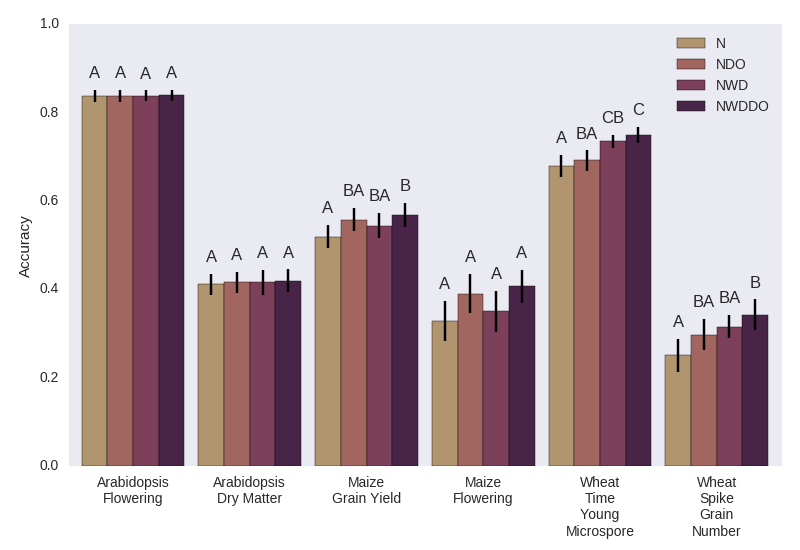
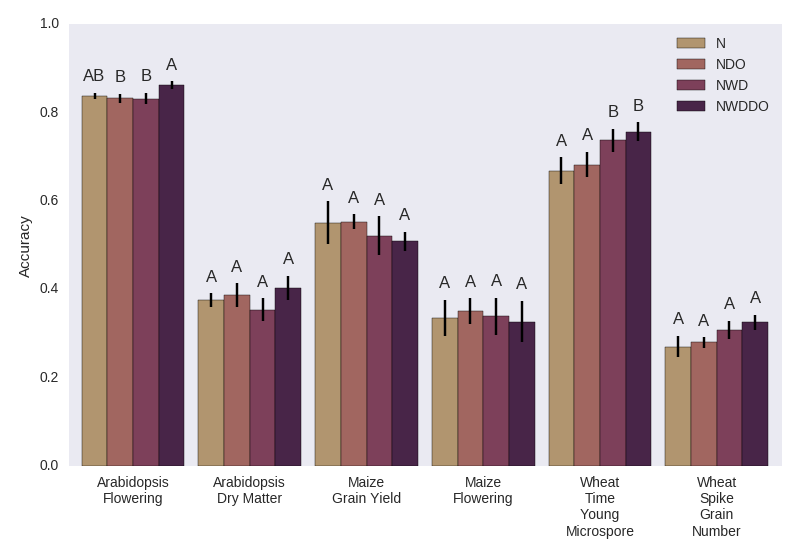
New figures. Full thesis skeleton

diff --git a/main.tex b/main.tex
@@ -2,20 +2,102 @@
 
 % Required Packages
 \usepackage[utf8]{inputenc}
-\usepackage{graphicx}
-\usepackage{blindtext}
 \usepackage[titletoc]{appendix}
+\usepackage{multirow}
+\usepackage{caption}
+\usepackage{tikz}
+\usepackage{tabularx}
+\usepackage{url}
+\usepackage{ifthen}
+\usepackage{verbatim}
+\usepackage{blindtext}
 \usepackage{amsmath}
 \usepackage{natbib}
-\usepackage{pdfpages}
 \usepackage{textcomp}
+\usepackage[hypertexnames=false,linktocpage=true]{hyperref}
+\hypersetup{colorlinks=true,linkcolor=blue,anchorcolor=blue,citecolor=blue,filecolor=blue,urlcolor=blue,bookmarksnumbered=true,pdfview=FitB}
 
 \graphicspath{ {images/} }
 
+% Set ISU required margins for unbound manuscript.
+\usepackage[margin=1.0in]{geometry}
+
+% Allow frontmatter and mainmatter in an article instead of a book.
+\newcommand\frontmatter{%
+    \cleardoublepage
+    \pagenumbering{roman}}
+\newcommand\mainmatter{%
+    \cleardoublepage
+    \pagenumbering{arabic}}
+
+% ISU thesis wants specific ToC formatting.
+\usepackage{tocloft}
+\renewcommand{\contentsname}{\hfill\bfseries\Large TABLE OF CONTENTS\hfill}
+\renewcommand\cftaftertoctitle{\hfill}
+\renewcommand\cftchapfont{\bfseries\MakeUppercase}
+\renewcommand\cftchappresnum{\chaptername~}
+\renewcommand\cftchapaftersnum{.}
+\cftsetindents{chapter}{0em}{8em}
+\cftsetindents{section}{2em}{6em}
+\cftsetindents{subsection}{4em}{6em}
+
+% ISU thesis wants bold, centered, uppercase chapters.
+\usepackage{titlesec}
+\titleformat{\chapter}[display]
+    {\normalfont\Large\bfseries\centering}
+    {\MakeUppercase\chaptertitlename\ \thechapter}{0pt}{\Large\uppercase}
+\titlespacing*{\chapter}{0pt}{-30pt}{30pt}
+
+% ISU thesis wants bold, centered, IntialCaps sections.
+\titleformat{\section}[display]
+    {\normalfont\large\bfseries\centering}
+    {}{0pt}{\large}
+
+% ISU wants 16pt Chapters and 12pt text.
+% That makes for 14pt sections.
+\makeatletter
+\renewcommand\Large{\@setfontsize\Large\@xivpt{16}}
+\renewcommand\large{\@setfontsize\Large\@xivpt{14}}
+\makeatother
+
+% ISU wants double spacing.
+\usepackage{setspace}
+
+% ISU examples show indents in paragraphs even after centered headings.
+\usepackage{indentfirst}
+
+% ISU wants page numbers top and centered.
+\usepackage{fancyhdr}
+\pagestyle{fancy}
+\fancyhf{} % Clear all headers and footers.
+\fancyhead[C]{\textbf{\thepage}} % Put page # at top of page.
+\fancypagestyle{plain}{ % Do the same thing for the plain style.
+    \fancyhf{} 
+    \fancyhead[C]{\textbf{\thepage}}
+    }
+\renewcommand{\headrulewidth}{0pt}
+
+% Begin the document.
+
 \begin{document}
+\frontmatter
 \input{chapters/title_page}
 \input{chapters/table_of_contents}
-\input{chapters/general_introduction}
+
+\doublespacing
+\phantomsection
+\input{chapters/abstract}
+\addcontentsline{toc}{chapter}{Abstract}
+
+
+\mainmatter
+\input{chapters/general_intro/general_introduction}
+\input{chapters/general_conclusions/general_conclusions}
+%\input{simplified/simple_contents}
+%\includepdf[pages={-}]{output/g3_article.pdf}
 \input{chapters/literature_cited}
-\includepdf[pages={-}]{output/g3_article.pdf}
+
+\input{chapters/appendices/raw_data}
+\addcontentsline{toc}{chapter}{Appendix A. Raw Data}
+
 \end{document}

diff --git a/g3_article/sections/results_discussion.tex b/g3_article/sections/results_discussion.tex
@@ -1,6 +1,34 @@
 
 \subsection*{Overall Performance}
 
+The unregularized neural network archetecture (N) was not a top performer for any of the six datasets. 
+At least one form of regularization outperformed the unregularized network for every dataset. 
+No network with only a single form of regularization was a best-in-dataset performer, but networks 
+with both dropout and weight decay were able to achive best-in-dataset performance on the Arabidopsis 
+- Flowering and Wheat - Time Young Microspore genomic prediction tasks. These results are summarized 
+in Table \ref{tab:model-comparison}.
+
+These results support the hypothesis that some type of regularization is required to achieve
+optimal performance in nerual network models. Additionally, a singular regularization strategy was
+not optimal for all datasets, indicating that the best regularization strategy for genomic prediction
+is dependent on the predicted species, trait, or population studied. 
+
+Dropout regularization tends to produce networks 
+that have reduced co-adaptation \citep{srivastava2014}. For genomic prediction tasks, this would
+indicate that the detection of rare combinations haplotypes specific to only one
+or two individuals are generally not learned or used for prediction. Instead, common haplotypes that persist across many
+different dropout iterations would be preferred by the network during training.
+
+Weight decay is an application of L2 regularization to neural networks \citep{krogh1992}. Like ridge regression, it prefers
+solutions that do not place large emphasis on any singular feature. For genomic prediction tasks, 
+this will produce models that perform well on traits with many predictive marker calls 
+with small effects. 
+
+For traits with a mixture of a few large-effect alleles and many small effect allels, some combination of 
+L1 and L2 regularization may be optimal. The elastic net (EN) model incorporates both of these regularization
+techniques, and is the top performer on two of the six datasets presented.
+
+
 \ifdefined\showtablesandfigures
 \input{g3_article/tables/model_comparison_wrapper} % Label = tab:model-comparison
 \fi

diff --git a/g3_article/tables/model_comparison.tex b/g3_article/tables/model_comparison.tex
@@ -4,13 +4,13 @@
 \header & & OLS & RR & LASSO & RBF & EN & BRR & N & NWD & NDO & NWDDO \\
 \hline
 \header Species & Trait & & & & & & & & & & \\
-Arabidopsis & Dry Matter & 0.360 & 0.399 & 0.399 & 0.397 & \underline{0.421} & 0.392 & 0.412 & 0.416 & 0.417 & 0.420 \\
-  & Flowering & 0.803 & 0.821 & 0.826 & 0.831 & 0.824 & 0.822 & 0.838 & 0.838 & 0.838 & \underline{0.839} \\
+Arabidopsis & Dry Matter & 0.360 & 0.399 & 0.399 & 0.397 & \underline{0.421} & 0.392 & 0.376 & 0.354 & 0.387 & 0.403 \\
+  & Flowering & 0.803 & 0.821 & 0.826 & 0.831 & 0.824 & 0.822 & 0.838 & 0.832 & 0.832 & \underline{0.862} \\
 \hline
-Maize & Flowering & 0.216 & 0.331 & 0.319 & 0.356 & 0.333 & 0.323 & 0.328 & 0.350 & 0.391 & \underline{0.407} \\
-  & Grain Yield & 0.468 & \underline{0.586} & 0.490 & 0.568 & 0.506 & 0.570 & 0.519 & 0.544 & 0.558 & 0.568 \\
+Maize & Flowering & 0.216 & 0.331 & 0.319 & \underline{0.356} & 0.333 & 0.323 & 0.335 & 0.339 & 0.350 & 0.327 \\
+  & Grain Yield & 0.468 & \underline{0.586} & 0.490 & 0.568 & 0.506 & 0.570 & 0.551 & 0.521 & 0.553 & 0.509 \\
 \hline
-Wheat & Spike Grain Number & 0.146 & 0.270 & 0.333 & 0.323 & \underline{0.358} & 0.275 & 0.251 & 0.316 & 0.298 & 0.343 \\
-  & Time Young Microspore & 0.587 & 0.614 & 0.738 & 0.651 & 0.731 & 0.638 & 0.679 & 0.735 & 0.692 & \underline{0.750} \\
+Wheat & Spike Grain Number & 0.146 & 0.270 & 0.333 & 0.323 & \underline{0.358} & 0.275 & 0.270 & 0.308 & 0.280 & 0.326 \\
+  & Time Young Microspore & 0.587 & 0.614 & 0.738 & 0.651 & 0.731 & 0.638 & 0.668 & 0.737 & 0.683 & \underline{0.757} \\
 \hline
 \end{tabularx}

diff --git a/g3_article/figures/network_comparison.tex b/g3_article/figures/network_comparison.tex
@@ -6,10 +6,11 @@
     \caption{Predictive accuracy ($\mu \pm \sigma_{\bar{x}}$) of 
              regularized and non-regularized 
              neural network models for on benchmark datasets. Only the best performing
-             network archetecture is included. The accuracy of each model across all 
-             folds of data and training cycles were recorded and compared. All pairwise 
-             model comparisons within a species and trait were made using a two-sided paired t-test 
-             (n=20 [TODO: UPDATE WITH FINAL NUMBER], paired by training cycle and fold number). 
+             network archetecture for each species, trait, and model is included. 
+             The accuracy of the best performing model across all folds of data 
+             and training cycles were recorded and compared. All pairwise model 
+             comparisons within a species and trait were made using a two-sided paired t-test 
+             (n=10, paired by training cycle and fold number).
              The resulting p-values were corrected for multiple comparisons within each 
              species and trait combination using the Holm-Bonferroni method. Columns annotated 
              with the same letter are not significantly different 

diff --git a/chapters/general_intro/general_intro.tex b/chapters/general_intro/general_intro.tex
@@ -1,6 +1,4 @@
-\chapter{Introduction to Genomic Prediction}
-
-\section{Plant Breeding}
+\section{Introduction}
 
 Humans have been breeding plants for food since the dawn of agriculture. This process
 emerged from a haphazard form of artifical selection where farmers would save seed from the 
@@ -26,11 +24,7 @@ More recently, the monetary cost of using molecular techniques to measure and ev
 genetics artificially has dropped significantly, ushering in an opportunity to inprove 
 the rate of genetic gain in plant breeding once again.
 
-\section{Molecular Breeding}
-
-Prior to the 
-
-\section{Breeder's Equation}
+Prior to the tex 
 
 % Fehr's Principles of Cultivar Development.
 The genetic gain in a breeding program is directly related to a host of factors. A 
@@ -65,14 +59,13 @@ tested in one location with one or two replications to establish a genetic value
 estimate the genetic value based on previously establised genetic effects. 
 
 
-\section{Genomic Selection}
 This is a section of text about genomic selection. 
 
 Let's cite Gianola here \citep{gianola2006}.
 
 \blindtext
 
+% Modeling Approaches?
 
-\section{Modeling Approaches}
 \blindenumerate
 \blindtext

diff --git a/simplified/simple_doc.tex b/simplified/simple_doc.tex
@@ -17,26 +17,6 @@
 
 \doublespacing
 
-\title{Genomic Selection with Deep Neural Networks}
-
-\author{Riley McDowell}
-\author{David Grant}
-
-\input{g3_article/sections/abstract}
-
-\section*{Introduction}
-
-\input{g3_article/sections/introduction}
-
-\section*{Materials and Methods}
-
-\input{g3_article/sections/methods}
-
-\section*{Results and Discussion}
-
-\input{g3_article/sections/results.tex}
-
-\bibliographystyle{apalike}
-\bibliography{bibliography}
+\input{simplified/simple_contents.tex}
 
 \end{document}

diff --git a/simplified/simple_contents.tex b/simplified/simple_contents.tex
@@ -1,0 +1,23 @@
+
+\title{Genomic Selection with Deep Neural Networks}
+
+\author{Riley McDowell}
+\author{David Grant}
+
+\input{g3_article/sections/abstract}
+
+\chapter*{Introduction}
+
+\input{g3_article/sections/introduction}
+
+\chapter*{Materials and Methods}
+
+\input{g3_article/sections/methods}
+
+\chapter*{Results and Discussion}
+
+\input{g3_article/sections/results_discussion.tex}
+
+\bibliographystyle{apalike}
+\bibliography{bibliography}
+

diff --git a/chapters/general_intro/general_introduction.tex b/chapters/general_intro/general_introduction.tex
@@ -1,0 +1,7 @@
+\chapter{General Introduction}
+
+\input{chapters/general_intro/general_intro}
+
+\input{chapters/general_intro/thesis_organization}
+
+\input{chapters/general_intro/lit_review}

diff --git a/g3_article/g3_article.tex b/g3_article/g3_article.tex
@@ -63,7 +63,7 @@
 
 \section*{Results and Discussion}
 
-\input{g3_article/sections/results.tex}
+\input{g3_article/sections/results_discussion}
 
 \bibliography{bibliography}
 

diff --git a/chapters/general_conclusions/general_conclusions.tex b/chapters/general_conclusions/general_conclusions.tex
@@ -1,0 +1,6 @@
+\chapter{General Conclusions}
+
+\input{chapters/general_conclusions/general_discussion}
+
+\input{chapters/general_conclusions/future_research}
+

diff --git a/chapters/literature_cited.tex b/chapters/literature_cited.tex
@@ -1,2 +1,4 @@
+%\chapter{Literature Cited}
+
 \bibliographystyle{g3_article/genetics}
 \bibliography{bibliography}

diff --git a/chapters/general_intro/thesis_organization.tex b/chapters/general_intro/thesis_organization.tex
@@ -1,0 +1,2 @@
+\section{Thesis Organization}
+Lorem ipsum.
